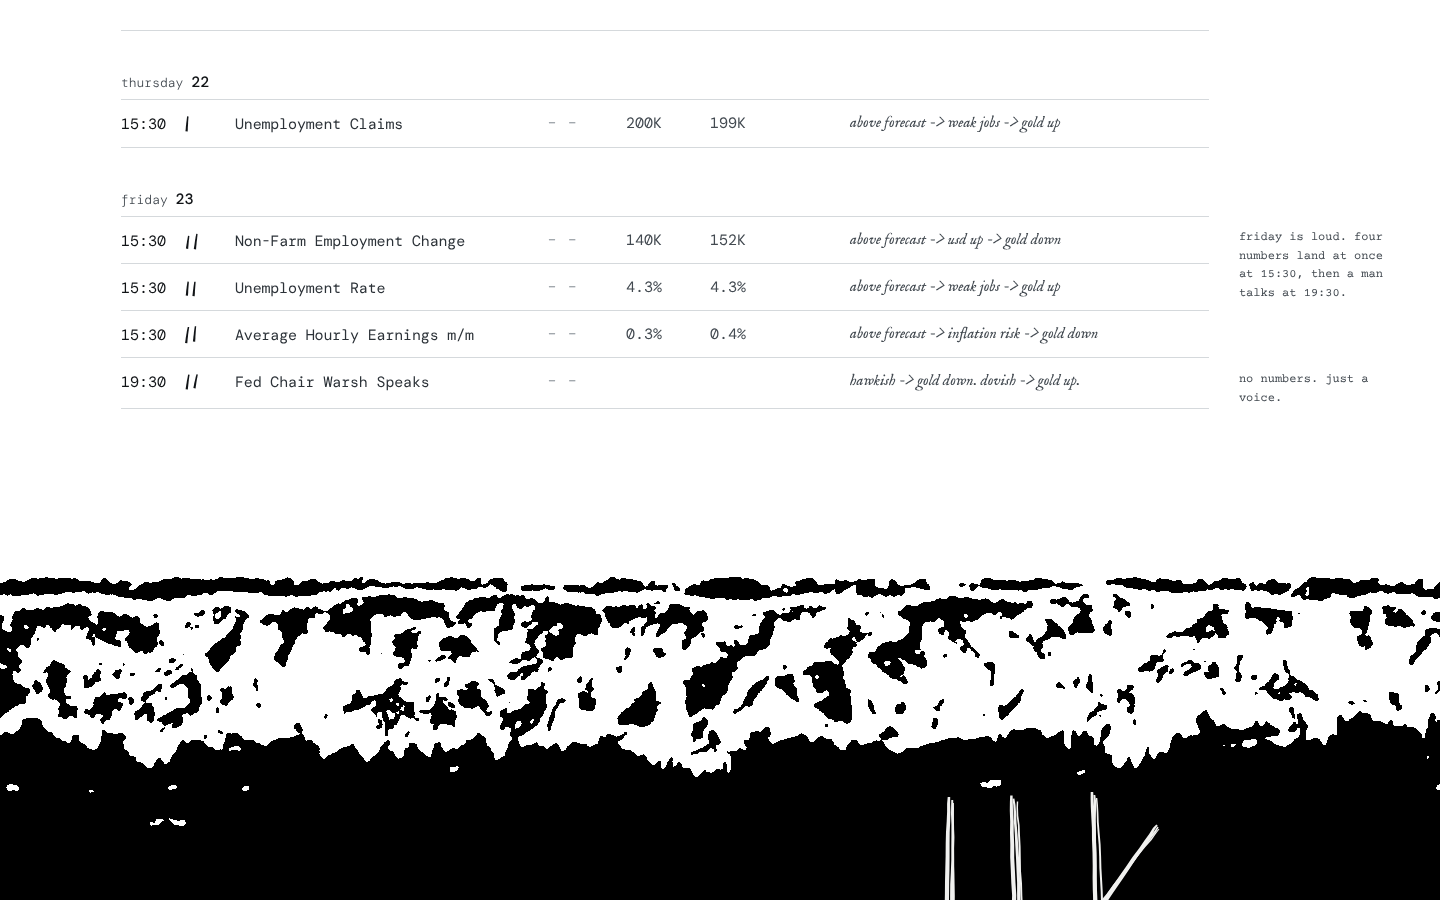
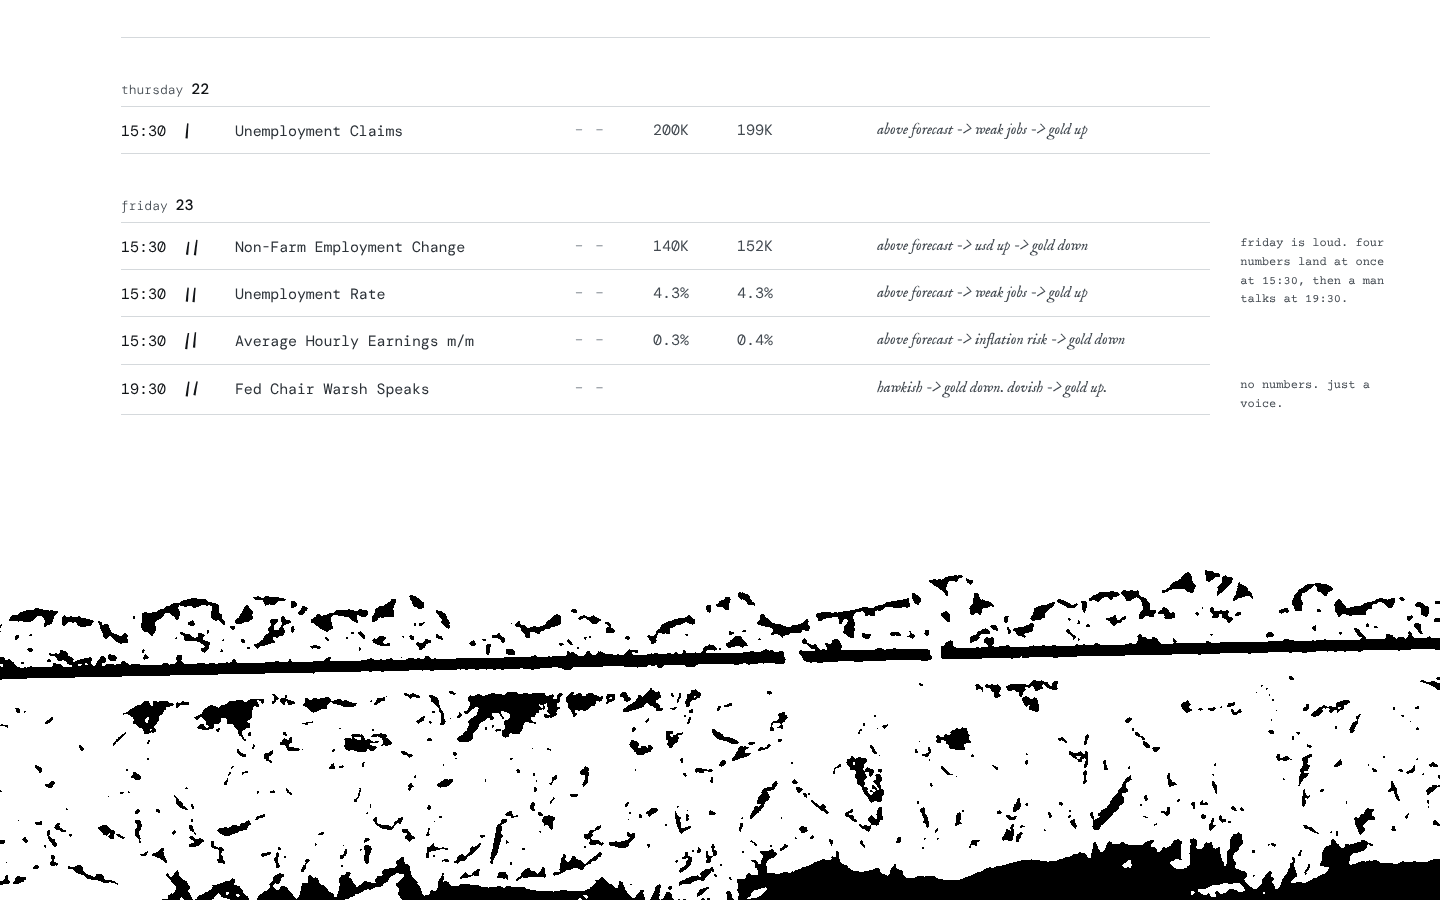
sketches: revised whiteout direction after critique
Claude-Session: https://claude.ai/code/session_016qoavB43GhTfL4J6NL7KKu

diff --git a/sketches/c-whiteout/index.html b/sketches/c-whiteout/index.html
@@ -14,8 +14,8 @@
 
 <!-- whiteout. the photo is blown out on purpose; the only black in it is 金, which stands where the sun is. -->
 <header class="whiteout">
-  <img class="scene" src="img/whiteout.jpg" width="1440" height="960"
-       alt="a snowed-in road in a whiteout. two skiers, small and dark, walk away from us toward a pale sundog. the trees are almost gone in the glare.">
+  <img class="scene" src="img/whiteout.jpg" width="1720" height="1075"
+       alt="a snowed-in road in a whiteout. two skiers, small and dark, walk away from us. a pale halo arc bends across the sky around the hidden sun, and a sundog stands between the trees.">
   <img class="kin" src="img/kin.png" width="750" height="1310"
        alt="金, the character for gold, very tall and black, worn like a bad photocopy. it stands in front of the sun.">
 
@@ -32,12 +32,16 @@
     <span class="t">t&minus;<span data-countdown>00:37:00</span></span></p>
 </header>
 
-<!-- one wire, drawn by hand. it sags through the first lines and snags on the foot of 金. -->
+<!-- one wire, drawn by hand. it sags across the snow and snags on the foot of 金. a second strand snapped and hangs beside the lede. -->
 <svg class="wire" viewBox="0 0 1440 320" aria-hidden="true">
 <path d="M-31.0 40.7 L-14.3 42.0 L8.2 44.4 L34.7 48.3 L63.9 51.7 L93.7 55.4 L122.0 58.8 L150.3 62.2 L178.9 65.9 L207.9 69.9 L238.1 73.7 L267.5 77.5 L296.9 80.4 L325.6 84.1 L354.1 86.6 L383.1 90.0 L411.5 92.9 L439.0 94.6 L466.4 96.6 L492.7 98.8 L518.2 100.5 L542.7 102.1 L566.6 103.7 L590.7 105.0 L614.9 105.4 L639.4 106.9 L664.0 108.1 L688.2 109.2 L712.1 109.7 L735.3 109.7 L758.9 110.1 L782.3 109.7 L806.2 108.9 L829.9 107.8 L853.3 106.5 L876.4 105.5 L898.7 104.8 L921.3 104.4 L944.1 104.9 L966.1 105.7 L987.6 105.8 L1007.4 105.9 L1025.8 105.1 L1042.9 103.3 L1059.5 101.7 L1074.9 99.1 L1089.3 95.8 L1102.4 92.2 L1115.0 89.0 L1127.3 84.5 L1139.4 79.7 L1149.7 73.7 L1159.7 67.1 L1169.0 60.6 L1178.1 53.1 L1187.2 45.4 L1195.8 36.4 L1203.6 27.2 L1211.2 18.1 L1217.4 10.8 L1221.6 5.5 L1218.4 6.9 L1213.1 13.1 L1206.3 21.5 L1198.3 30.5 L1190.0 39.7 L1181.4 47.9 L1172.6 55.5 L1163.0 62.4 L1153.6 68.8 L1143.4 74.8 L1132.8 80.4 L1120.5 84.7 L1108.2 88.4 L1095.2 91.5 L1081.8 94.9 L1066.6 98.4 L1051.2 100.3 L1034.4 101.8 L1016.8 103.1 L997.2 103.7 L976.9 103.3 L955.5 102.8 L932.8 102.2 L910.2 102.1 L888.1 102.6 L864.6 103.4 L841.5 104.6 L818.0 105.6 L794.0 106.9 L770.6 107.4 L746.9 107.5 L723.7 106.6 L700.2 107.1 L676.4 105.8 L652.1 104.7 L627.5 103.2 L602.8 102.7 L578.9 101.6 L554.6 100.5 L530.8 98.8 L505.6 97.0 L479.9 95.3 L452.9 93.0 L425.4 91.2 L397.6 89.1 L368.7 85.5 L340.2 83.2 L311.4 80.0 L282.2 76.5 L253.2 73.2 L223.3 69.5 L193.5 65.8 L164.7 61.7 L136.5 58.2 L108.3 54.9 L79.3 51.6 L49.5 47.8 L21.1 44.3 L-3.3 40.9 L-23.2 39.3 L-30.9 38.8Z"/>
 <path d="M1221.8 6.5 L1223.1 4.9 L1225.1 2.6 L1228.0 -0.6 L1230.9 -4.3 L1234.0 -7.8 L1237.1 -11.3 L1240.8 -14.8 L1244.0 -18.4 L1247.3 -21.6 L1250.4 -24.0 L1253.9 -26.4 L1257.7 -28.0 L1261.1 -29.7 L1265.7 -31.9 L1269.9 -34.1 L1274.0 -35.8 L1278.1 -37.4 L1281.8 -38.6 L1285.5 -39.5 L1289.0 -40.3 L1292.6 -40.2 L1296.0 -39.9 L1299.9 -39.6 L1303.6 -39.0 L1307.3 -37.9 L1310.7 -36.3 L1314.1 -34.6 L1317.3 -33.5 L1319.8 -31.4 L1321.3 -29.7 L1322.2 -28.1 L1322.7 -26.3 L1323.0 -23.8 L1322.7 -20.8 L1322.4 -18.0 L1321.2 -14.9 L1320.3 -13.2 L1318.4 -10.9 L1316.8 -8.4 L1314.9 -6.8 L1312.9 -5.7 L1310.2 -4.4 L1307.2 -3.2 L1303.3 -2.4 L1299.3 -1.4 L1295.4 -0.3 L1291.3 -0.1 L1287.0 0.3 L1282.9 0.8 L1279.3 1.1 L1275.6 0.8 L1271.8 0.2 L1267.4 -0.8 L1262.9 -1.8 L1258.5 -2.3 L1255.0 -3.2 L1251.1 -4.4 L1247.6 -6.1 L1244.3 -8.0 L1241.7 -9.4 L1239.6 -11.6 L1238.0 -14.4 L1236.0 -17.5 L1235.0 -20.4 L1234.1 -23.8 L1233.2 -26.9 L1232.6 -30.1 L1232.4 -33.1 L1233.0 -35.4 L1233.2 -37.3 L1234.4 -39.1 L1236.7 -41.3 L1239.4 -43.2 L1242.5 -45.4 L1246.0 -47.1 L1249.5 -48.4 L1253.5 -50.5 L1257.1 -51.2 L1261.8 -52.2 L1265.2 -53.0 L1269.7 -53.3 L1274.3 -53.6 L1279.6 -53.4 L1285.0 -52.8 L1290.9 -52.2 L1296.1 -52.0 L1301.2 -51.0 L1305.6 -51.0 L1308.9 -50.5 L1312.3 -50.0 L1312.6 -52.0 L1309.3 -52.6 L1305.7 -53.2 L1301.5 -53.2 L1296.3 -54.3 L1291.0 -54.5 L1285.3 -55.2 L1279.8 -55.9 L1274.3 -56.1 L1269.6 -55.9 L1264.8 -55.6 L1261.2 -54.7 L1256.6 -53.8 L1252.5 -53.0 L1248.3 -50.8 L1244.9 -49.6 L1241.1 -47.8 L1237.8 -45.5 L1234.9 -43.5 L1232.2 -40.9 L1230.5 -38.3 L1230.2 -35.9 L1229.6 -33.3 L1229.7 -29.7 L1230.4 -26.2 L1231.2 -23.1 L1232.1 -19.5 L1233.4 -16.2 L1235.4 -12.8 L1237.2 -9.8 L1239.8 -7.0 L1242.8 -5.3 L1246.1 -3.4 L1249.9 -1.5 L1254.2 -0.2 L1257.9 0.8 L1262.3 1.3 L1266.8 2.3 L1271.2 3.3 L1275.3 3.9 L1279.3 4.2 L1283.2 4.0 L1287.3 3.4 L1291.5 3.1 L1295.9 2.9 L1300.2 1.7 L1304.0 0.7 L1308.1 -0.1 L1311.5 -1.5 L1314.4 -2.8 L1316.8 -4.2 L1319.3 -6.3 L1321.0 -9.0 L1323.0 -11.4 L1324.1 -13.7 L1325.4 -17.2 L1325.9 -20.5 L1326.2 -23.8 L1325.8 -26.9 L1325.1 -29.3 L1323.8 -31.6 L1322.0 -33.7 L1318.8 -36.2 L1315.3 -37.5 L1312.0 -39.1 L1308.4 -40.8 L1304.3 -42.0 L1300.3 -42.7 L1296.2 -42.9 L1292.8 -43.2 L1288.7 -43.3 L1284.8 -42.5 L1281.0 -41.5 L1277.1 -40.2 L1272.9 -38.5 L1268.7 -36.7 L1264.5 -34.5 L1259.9 -32.3 L1256.5 -30.6 L1252.6 -28.8 L1248.8 -26.3 L1245.5 -23.6 L1242.0 -20.3 L1238.9 -16.6 L1235.2 -13.1 L1232.1 -9.5 L1228.9 -5.9 L1226.0 -2.2 L1223.2 0.9 L1221.2 3.3 L1219.9 5.1Z"/>
 <path d="M1311.7 -51.3 L1314.1 -50.3 L1317.4 -49.2 L1321.5 -48.0 L1325.5 -46.3 L1329.8 -44.6 L1334.4 -43.2 L1338.8 -41.4 L1343.3 -39.0 L1347.8 -36.3 L1352.2 -33.6 L1356.0 -30.7 L1359.7 -27.8 L1363.8 -24.4 L1367.4 -21.2 L1371.4 -17.6 L1375.5 -14.4 L1378.9 -10.8 L1382.5 -7.1 L1386.2 -3.3 L1389.8 0.5 L1393.3 4.3 L1396.3 8.5 L1399.5 12.7 L1402.6 16.5 L1405.7 20.5 L1408.6 24.9 L1411.9 29.2 L1415.7 33.5 L1419.3 37.3 L1423.7 40.9 L1428.1 44.7 L1433.9 48.6 L1440.3 52.3 L1446.9 56.0 L1453.5 59.7 L1460.0 62.8 L1466.3 66.1 L1471.9 68.3 L1476.4 70.6 L1479.7 72.5 L1480.3 71.5 L1477.1 69.4 L1472.5 67.0 L1466.9 64.7 L1460.7 61.4 L1454.2 58.2 L1447.7 54.6 L1441.1 50.8 L1434.9 47.1 L1429.2 43.2 L1424.9 39.5 L1420.5 36.0 L1417.1 32.3 L1413.4 27.9 L1410.2 23.8 L1407.3 19.4 L1404.1 15.3 L1401.0 11.4 L1397.9 7.3 L1394.9 3.0 L1391.2 -0.9 L1387.6 -4.7 L1383.9 -8.5 L1380.4 -12.2 L1376.8 -15.9 L1372.7 -19.1 L1368.7 -22.7 L1365.1 -26.0 L1360.9 -29.3 L1357.2 -32.2 L1353.3 -35.2 L1348.8 -38.0 L1344.2 -40.7 L1339.6 -43.0 L1335.0 -44.9 L1330.3 -46.2 L1326.1 -47.8 L1322.1 -49.6 L1317.9 -50.8 L1314.6 -51.7 L1312.3 -52.7Z"/>
-<path d="M-30.1 86.7 L-24.4 87.7 L-17.0 88.7 L-8.8 90.1 L0.5 91.5 L11.0 93.1 L21.4 95.2 L33.0 97.4 L45.3 99.0 L56.8 100.8 L68.4 102.4 L79.3 104.4 L89.5 106.2 L99.8 107.7 L110.3 109.4 L120.2 111.0 L130.6 112.7 L140.9 114.6 L151.4 116.5 L161.5 118.2 L171.5 119.8 L181.7 121.0 L191.3 122.2 L200.4 123.9 L209.3 125.6 L217.8 126.8 L226.2 128.1 L234.6 129.2 L242.8 130.6 L251.0 131.7 L258.7 132.5 L265.9 133.2 L273.1 133.6 L280.1 134.3 L286.3 135.0 L292.4 135.8 L298.0 136.9 L303.7 137.1 L308.4 137.3 L312.1 137.5 L315.9 137.6 L319.0 138.1 L322.1 138.2 L325.3 138.5 L327.6 138.4 L329.7 138.7 L332.3 139.4 L334.5 139.6 L337.0 140.4 L338.9 140.9 L341.1 141.9 L343.4 142.5 L345.5 143.0 L347.1 144.3 L348.9 145.2 L350.4 146.8 L351.9 148.0 L353.4 149.1 L354.2 150.4 L355.0 152.3 L355.8 154.1 L356.4 156.9 L356.7 159.9 L357.0 163.0 L357.0 166.5 L357.0 170.8 L357.2 174.4 L356.7 177.8 L355.7 181.9 L355.4 185.0 L354.8 189.0 L354.4 192.1 L353.9 194.5 L352.9 196.5 L352.2 198.7 L351.5 201.1 L350.7 203.0 L349.6 204.3 L349.0 206.1 L348.3 207.2 L346.8 208.7 L345.2 209.8 L343.8 211.0 L343.0 212.2 L341.5 213.2 L340.1 214.1 L339.1 214.3 L337.7 214.4 L336.5 215.0 L335.6 215.1 L334.7 215.4 L334.3 215.5 L333.1 215.4 L331.9 215.3 L331.0 215.5 L330.5 215.5 L330.1 215.4 L329.9 216.6 L330.4 216.7 L331.1 216.7 L331.9 216.6 L333.0 216.7 L334.3 216.8 L335.0 216.7 L335.9 216.5 L336.9 216.3 L338.0 215.9 L339.3 215.8 L340.7 215.5 L342.3 214.5 L344.0 213.3 L344.9 212.1 L346.1 211.1 L347.8 209.9 L349.5 208.2 L350.5 206.8 L351.0 205.1 L352.1 203.8 L353.0 201.6 L353.8 199.2 L354.5 197.2 L355.5 195.0 L356.1 192.4 L356.6 189.2 L357.1 185.3 L357.5 182.2 L358.5 178.2 L359.0 174.5 L358.8 170.7 L358.8 166.5 L358.8 162.9 L358.6 159.7 L358.2 156.6 L357.6 153.5 L356.7 151.5 L355.9 149.6 L354.7 147.8 L353.1 146.5 L351.7 145.4 L350.0 143.7 L348.1 142.8 L346.3 141.3 L343.8 140.7 L341.8 140.1 L339.6 139.2 L337.5 138.6 L334.9 137.8 L332.6 137.5 L330.1 136.9 L327.7 136.5 L325.3 136.6 L322.2 136.3 L319.2 136.2 L316.0 135.7 L312.1 135.6 L308.5 135.5 L303.8 135.2 L298.3 135.0 L292.7 133.9 L286.5 133.1 L280.3 132.5 L273.3 131.8 L266.1 131.4 L258.9 130.7 L251.2 129.9 L243.1 128.8 L234.8 127.4 L226.4 126.3 L218.0 125.1 L209.6 123.9 L200.8 122.1 L191.6 120.4 L181.9 119.2 L171.7 118.1 L161.8 116.5 L151.7 114.8 L141.2 113.0 L130.8 111.1 L120.5 109.4 L110.5 107.8 L100.1 106.1 L89.7 104.5 L79.6 102.8 L68.7 100.9 L57.0 99.2 L45.5 97.4 L33.3 95.9 L21.7 93.7 L11.2 91.6 L0.8 90.0 L-8.6 88.7 L-16.8 87.3 L-24.2 86.3 L-29.9 85.3Z"/>
+<g class="strand">
+<path d="M-30.1 86.8 L-24.7 87.4 L-17.8 88.5 L-9.5 89.8 L0.1 91.3 L9.9 92.7 L21.0 94.4 L32.1 96.1 L43.6 97.7 L55.5 99.3 L66.9 101.3 L77.8 103.0 L88.3 104.6 L98.2 106.2 L108.8 107.5 L119.4 109.2 L129.8 111.3 L140.4 112.8 L150.9 114.6 L161.2 116.4 L171.3 118.2 L181.5 119.7 L191.2 121.2 L200.5 122.4 L209.2 123.9 L217.9 125.5 L226.0 126.7 L234.2 127.6 L242.0 128.8 L249.9 130.2 L257.2 131.3 L264.3 132.9 L271.1 134.1 L277.7 135.3 L284.0 136.3 L290.0 137.5 L295.9 139.0 L301.2 140.6 L306.0 142.2 L310.6 143.6 L314.7 145.1 L318.3 146.0 L321.9 147.2 L325.5 149.1 L328.7 150.5 L332.0 152.3 L335.1 153.9 L338.3 155.8 L341.1 157.8 L344.1 159.6 L346.9 161.6 L349.7 163.9 L352.2 166.2 L354.5 168.1 L356.4 170.6 L358.1 173.4 L359.7 176.2 L361.4 179.2 L363.2 181.6 L365.1 184.7 L366.6 187.5 L368.0 190.2 L369.4 193.1 L370.5 196.1 L371.3 199.1 L372.4 202.4 L373.3 205.8 L373.8 209.0 L374.3 212.4 L374.8 215.6 L375.0 218.6 L375.8 221.5 L376.1 224.5 L376.9 227.0 L377.2 229.5 L377.1 232.5 L377.4 235.3 L377.4 238.1 L377.5 240.7 L377.4 243.0 L377.8 245.2 L378.0 247.3 L378.0 249.1 L378.3 250.7 L378.4 252.0 L379.6 252.0 L379.6 250.6 L379.3 249.0 L379.3 247.2 L379.2 245.1 L378.8 242.9 L378.9 240.7 L378.9 238.1 L378.8 235.3 L378.6 232.5 L378.6 229.5 L378.3 226.7 L377.5 224.2 L377.3 221.2 L376.5 218.3 L376.3 215.4 L375.8 212.2 L375.4 208.8 L374.9 205.4 L373.9 202.0 L372.8 198.7 L372.0 195.6 L370.9 192.5 L369.4 189.5 L368.1 186.7 L366.5 183.9 L364.6 180.7 L362.8 178.2 L361.1 175.4 L359.5 172.5 L357.9 169.7 L355.8 166.9 L353.4 164.9 L350.8 162.6 L347.9 160.2 L345.0 158.2 L342.1 156.3 L339.2 154.4 L336.0 152.4 L332.8 150.7 L329.5 148.9 L326.3 147.5 L322.7 145.5 L318.8 144.3 L315.2 143.3 L311.2 141.9 L306.6 140.4 L301.7 138.8 L296.4 137.3 L290.4 135.7 L284.3 134.5 L278.1 133.5 L271.4 132.2 L264.6 131.1 L257.5 129.5 L250.2 128.4 L242.3 127.0 L234.5 125.8 L226.2 124.9 L218.2 123.7 L209.5 122.1 L200.8 120.6 L191.5 119.3 L181.8 117.9 L171.6 116.4 L161.5 114.6 L151.2 112.8 L140.7 111.0 L130.1 109.6 L119.7 107.5 L109.0 105.8 L98.4 104.5 L88.6 102.9 L78.1 101.3 L67.2 99.6 L55.7 97.6 L43.8 96.0 L32.3 94.4 L21.2 92.8 L10.2 91.1 L0.3 89.7 L-9.3 88.3 L-17.6 86.9 L-24.5 85.9 L-29.9 85.2Z"/>
+<path d="M378.7 248.0 L378.8 249.3 L379.0 250.8 L379.4 252.6 L379.7 254.4 L380.2 256.4 L380.8 258.2 L381.4 259.7 L382.1 261.2 L382.9 262.8 L383.9 264.2 L384.7 265.4 L385.9 266.5 L387.0 267.4 L388.1 268.1 L389.5 268.7 L390.7 269.1 L391.9 269.3 L393.0 269.3 L394.0 269.0 L394.9 268.6 L395.6 267.9 L396.3 267.2 L396.7 266.6 L397.1 266.2 L396.9 265.8 L396.3 266.2 L395.8 266.8 L395.2 267.4 L394.5 268.1 L393.8 268.4 L392.9 268.6 L392.0 268.5 L390.9 268.4 L389.8 268.0 L388.5 267.4 L387.4 266.7 L386.4 265.9 L385.4 264.9 L384.5 263.7 L383.6 262.4 L382.8 260.9 L382.1 259.4 L381.5 257.9 L380.9 256.2 L380.4 254.3 L380.1 252.5 L379.7 250.7 L379.5 249.2 L379.3 248.0Z"/>
+<path d="M378.2 249.0 L378.0 250.1 L377.8 251.7 L377.5 253.5 L377.3 254.9 L377.0 256.0 L376.6 257.0 L376.4 257.8 L376.2 258.4 L376.6 258.6 L376.9 258.0 L377.2 257.2 L377.6 256.2 L377.9 255.1 L378.2 253.6 L378.5 251.8 L378.6 250.2 L378.8 249.0Z"/>
+</g>
 <path d="M208.4 74.8 L209.3 74.1 L210.5 73.1 L211.9 72.0 L213.3 70.8 L214.6 69.6 L215.8 68.5 L217.2 67.2 L218.5 66.0 L219.6 65.0 L220.4 64.1 L219.6 63.3 L218.7 63.9 L217.5 64.9 L216.2 66.0 L214.7 67.2 L213.4 68.4 L212.1 69.5 L210.8 70.7 L209.4 71.9 L208.3 73.0 L207.6 73.8Z"/>
 <path d="M208.6 65.4 L209.4 66.3 L210.5 67.5 L211.9 68.9 L213.3 70.3 L214.4 71.5 L215.4 72.6 L216.3 73.8 L217.2 74.8 L218.0 75.7 L218.6 76.3 L219.4 75.7 L219.0 74.9 L218.3 74.0 L217.5 72.8 L216.6 71.6 L215.6 70.5 L214.4 69.2 L213.0 67.8 L211.6 66.5 L210.3 65.3 L209.4 64.6Z"/>
 <path d="M554.4 106.6 L555.3 106.0 L556.5 105.1 L557.9 103.9 L559.3 102.8 L560.6 101.6 L561.8 100.5 L563.2 99.3 L564.5 98.1 L565.6 97.1 L566.4 96.3 L565.6 95.4 L564.7 96.0 L563.5 97.0 L562.2 98.1 L560.8 99.3 L559.4 100.4 L558.2 101.5 L556.8 102.7 L555.5 103.9 L554.3 104.9 L553.6 105.6Z"/>
@@ -218,8 +222,8 @@
 
 <!-- the page goes under at the frost line and stays dark -->
 <section class="night" aria-label="the week so far, and the end">
-  <img class="frost" src="img/frost-line.png" width="1440" height="420"
-       alt="a wire furred with hoarfrost, copied until only black and white are left. above it the page is white, below it everything is dark.">
+  <img class="frost" src="img/frost-line.png" width="1440" height="450"
+       alt="a wire furred with hoarfrost, copied until only black and white are left: one hard black line with ice standing on it and hanging from it. above it the page is white, below it everything is dark.">
 
   <div class="tally">
     <svg class="scratch" viewBox="0 0 300 260" role="img" aria-label="three tally marks scratched into the dark. the third one is crossed out.">

diff --git a/sketches/c-whiteout/style.css b/sketches/c-whiteout/style.css
@@ -92,8 +92,8 @@ p { margin: 0; }
 }
 .walkers {
   position: absolute;
-  left: 26.8vw;
-  top: 93.3%;
+  left: 15.4vw;
+  top: 86.4%;
   font: 12px/1.5 var(--type);
   color: var(--ink);
   white-space: nowrap;
@@ -152,11 +152,12 @@ table.cal {
 }
 .cal col.c-time { width: 62px; }
 .cal col.c-imp { width: 52px; }
-.cal col.c-ev { width: 21%; }
+/* .c-ev has no width: it takes what is left */
 .cal col.c-act { width: 90px; }
 .cal col.c-num { width: 84px; }
 .cal col.c-xau { width: 88px; }
-.cal col.c-book { width: 28%; }
+.cal col.c-book { width: 26%; }
+.cal col.c-aside { width: 15%; }
 
 .cal th, .cal td {
   text-align: left;
@@ -223,7 +224,7 @@ table.cal {
   text-wrap: balance;
 }
 .later .rule, .next .rule { color: var(--ink-2); }
-.did { display: block; margin-top: 6px; font: 12px/1.45 var(--mono); color: var(--ink-2); }
+.did { display: block; margin-top: 6px; font: 12px/1.45 var(--mono); color: var(--ink-2); text-wrap: pretty; }
 .did b { font-weight: 500; color: var(--ink); white-space: nowrap; }
 
 /* tuesday: the textbook line struck through by a proofreader. the only colour on the page. */
@@ -240,8 +241,9 @@ table.cal {
 }
 
 /* now */
-.cal tr.now td { padding: 7px 10px 8px 0; border-bottom: 0; border-top: 1px solid var(--ink); }
-.cal tr.now td.time, .cal tr.now td.nowtext { font: 400 12.5px/1.2 var(--mono); color: var(--ink); }
+.cal tr.now td { padding: 9px 10px 10px 0; border-bottom: 0; vertical-align: baseline; }
+.cal tr.now td.time { font: 500 13px/1.2 var(--mono); color: var(--ink); border-top: 2px solid var(--ink); padding-top: 8px; }
+.cal tr.now td.nowtext { font: 400 13px/1.2 var(--type); color: var(--ink); }
 .cal tr.now td.aside { border-top: 0; }
 
 /* next */
@@ -289,7 +291,7 @@ table.cal {
 .tally {
   position: relative;
   height: 290px;
-  margin-top: -170px;
+  margin-top: -96px;
 }
 .scratch {
   position: absolute;
@@ -342,8 +344,8 @@ table.cal {
 }
 
 @media (max-width: 1180px) {
-  .cal col.c-ev { width: 23%; }
   .cal col.c-book { width: 31%; }
+  .cal col.c-aside { width: 0; }
   .cal .aside { display: none; }
   .rule { font-size: 14.5px; }
 }
@@ -357,11 +359,12 @@ table.cal {
   .mark img { height: 120px; }
   .gloss, .count .clock { display: none; }
   .early { left: 72px; top: 22px; font-size: 26px; }
-  .voice { left: 64px; top: 64px; font-size: 12px; white-space: normal; width: 44vw; }
-  .walkers { left: 16px; top: auto; bottom: 10px; }
-  .count { left: 64px; top: 34%; color: var(--ink); }
+  .voice { left: 78px; top: 64px; font-size: 12px; white-space: normal; width: 44vw; }
+  .walkers { left: 16px; top: 70%; bottom: auto; font-size: 11.5px; }
+  .count { left: 78px; top: 34%; color: var(--ink); }
   .count .t { font-size: 18px; }
   .wire { top: calc(var(--hh) - 10vw); height: 30vw; }
+  .wire .strand { display: none; }
   .log { padding: 26px 16px 80px; }
   .lede { margin-left: 0; font-size: 13px; }
   table.cal { margin-top: 48px; }
@@ -402,12 +405,13 @@ table.cal {
   .struck { white-space: normal; }
   .strike { display: none; }
   .struck s { text-decoration: line-through; text-decoration-color: var(--pencil); text-decoration-thickness: 2px; }
-  .cal tr.now { display: flex; gap: 12px; border-top: 1px solid var(--ink); padding: 6px 0; }
+  .cal tr.now { display: flex; gap: 12px; align-items: baseline; padding: 4px 0 8px; }
   .cal tr.now td { border: 0; padding: 0; }
+  .cal tr.now td.time { border-top: 2px solid var(--ink); padding: 6px 0 0; }
   .cal tr.playbook td { padding: 0; border: 0; }
   .cal tr.playbook td.time, .cal tr.playbook td.imp { display: none; }
   .note { padding: 10px 0 18px; border-bottom: 1px solid var(--hair); }
-  .tally { height: 300px; margin-top: -90px; }
+  .tally { height: 300px; margin-top: -16px; }
   .scratch { left: auto; right: 16px; width: 170px; height: 150px; }
   .tally-words { left: 16px; top: 170px; font-size: 13px; }
   .sunset img { height: 520px; object-fit: cover; object-position: 34% 50%; }

diff --git a/sketches/c-whiteout/CREDITS.md b/sketches/c-whiteout/CREDITS.md
@@ -5,15 +5,25 @@ downloaded (Commons thumbnails: 1920px for the skiers, 1280px for the other two)
 `img/` that comes from a photograph is my own processing of it with numpy, Pillow and ImageMagick.
 Each image gets its own treatment, and none of them uses a dither screen:
 
-- **hero** (`img/whiteout.jpg`): flipped left to right, then cropped so the skiers sit low in the left
-  third. The trees are fogged to pale grey and the snow is blown to paper white. The sky stays a pale
-  grey so the photo's own sundog (found in its Lab chroma) can be burned in as pure white with a soft
-  bloom. There is extra glare where the hidden sun is, and halation over the tree edges. The skiers are
-  masked and protected, so they stay the darkest thing in the photo. Continuous tone.
-- **frost line** (`img/frost-line.png`): red channel only, so the warm haze goes white and the blue
-  snow goes black. Local contrast lifts the crystals, everything above the wire is blown out, and the
-  snow below is burned to black. Then three photocopier generations (blur, clumped noise, threshold).
-  Two tones.
+- **hero** (`img/whiteout.jpg`): flipped left to right and cropped wide (source x 200-1920,
+  y 330-1405, kept at 1720x1075) so the sky holds the photo's own halo arc and the skiers sit low,
+  about a third in from the left. The arc was measured from the pixels, not drawn: a red-minus-blue
+  ridge on a circle round the hidden sun (centre about 1760, 752 in the flipped source, radius about
+  1205 px, steady over 186-206 degrees). That ridge is burned to white with an uneven width and
+  brightness along its length. The sky inside it is held a little darker, the way it is inside a real
+  halo, so the ring can show. The sundog (a vertical bright smear between the trees) is lifted. The
+  trees are fogged to ghosts, more so on the left where the wordmark sits. The snow is blown to paper.
+  There is glare where the hidden sun is (behind 金). The skiers are masked and protected, so they
+  stay the darkest pixels in the frame. One horizontal smear pass runs across the snow line (blowing
+  snow), and the bottom drifts into the page. Continuous tone.
+- **frost line** (`img/frost-line.png`): cropped to the wire (source x 160-1120, y 280-580) and
+  enlarged 1.5x. It is copied on local contrast (the photo minus its own blur), so flat haze and flat
+  snow go to paper and only the crystal edges print. The real wire is mostly buried in ice in the
+  photo, so the copier takes what is darker than the frost on its row and closes it along its straight
+  path. It prints as one hard black line with a few breaks where the ice covers it, with a lit gap
+  under it. The snow under the frost burns to black. Then three copier generations (blur, clumped
+  noise, threshold), and the whole strip is tilted 1.2 degrees so the wire is not a ruled line. Two
+  tones.
 - **after sunset** (`img/after-sunset.jpg`): the red/luma mix crushed so the sky is night and the sun
   is the only white. The sun's core is blown and burned a little wider, then the image is re-saved as
   a low-quality JPEG five times so the 8x8 blocks show in the glow. Blacks are put back to true black.
@@ -45,7 +55,9 @@ above. The other two processed images are public domain. The page footer points 
   then given two blur-and-threshold bleed passes. Rotated to read bottom to top.
 - the wire (inline SVG in `index.html`): hand-plotted filled outlines with tremor and pressure. It sags
   across the snow, gets caught on the stem of 金 and is pulled once around it. A second strand has
-  snapped and hangs. The barbs are little twists, each one different.
+  snapped: it sags out of the photo and hangs beside the lede, and its cut end frays into one curled
+  hair and a stub. The barbs are little twists, each one different. The real wire, photographed, comes
+  back at the frost line.
 - the red pencil through tuesday's textbook line (inline SVG): one heavy pass that tapers, plus a
   lighter return stroke, in #a3261c. This is the only colour on the page.
 - the impact strokes (inline SVG, one drawn for each row: two strokes for high, one for medium) and
